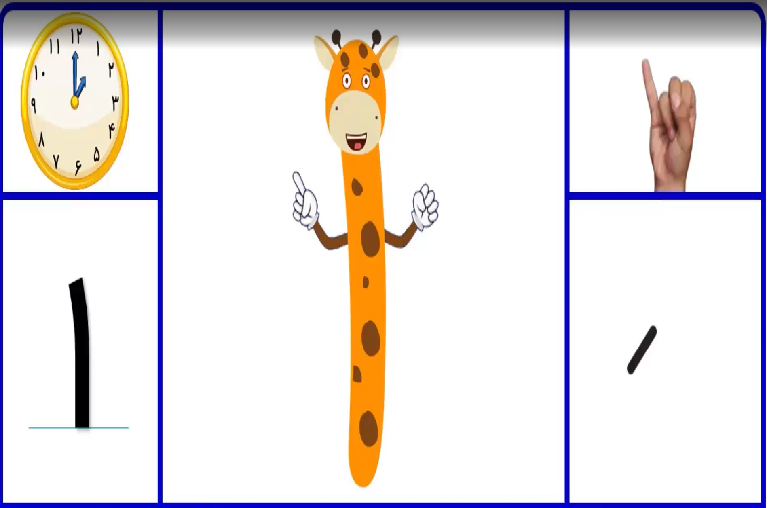
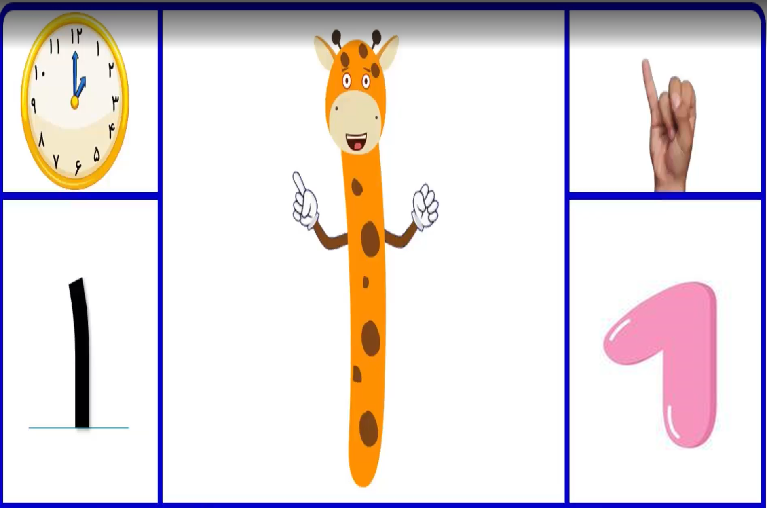
add the game (flipping table) to alpha page.

Changed region(s): [[0.7812, 0.5315, 0.9375, 0.8858]]

diff --git a/src/component/classes/alphabet/dataAlpha.js b/src/component/classes/alphabet/dataAlpha.js
@@ -1059,6 +1059,11 @@ export let testSchoolSupplies = {
             sylabelWord : "ما + شین + حِ + ساب --> ماشین حساب",
             active :""
         },
+        {
+            image :"./images/assetAlpha/school-supplies/12-30-24-sch.png",
+            sylabelWord : "",
+            active :""
+        },
     ]
 }
 
@@ -1365,5 +1370,38 @@ export let testOrder1 = {
 }
 
 // ******************************* End MakeWordCarousel data *********************
+
+// **************************** start flipping Table data ***********************
+export const tableDataNum = [
+    [
+      { front: './images/assetAlpha/numbers/1-8-25-16-num.png', back: 'Back A1 Info' },
+      { front: './images/assetAlpha/numbers/1-8-25-8-num.png', back: 'Back A1 Info' },
+      { front: './images/assetAlpha/numbers/1-8-25-13-num.png', back: 'Back A1 Info' },
+      { front: './images/assetAlpha/numbers/1-8-25-9-num.png', back: 'Back A1 Info' },
+      { front: './images/assetAlpha/numbers/1-8-25-10-num.png', back: 'Back A1 Info' },
+    ],
+    [
+      { front: './images/assetAlpha/numbers/1-8-25-1-num.png', back: 'Back A1 Info' },
+      { front: './images/assetAlpha/numbers/1-8-25-17-num.png', back: 'Back A1 Info' },
+      { front: './images/assetAlpha/numbers/1-8-25-19-num.png', back: 'Back A1 Info' },
+      { front: './images/assetAlpha/numbers/1-8-25-3-num.png', back: 'Back A1 Info' },
+      { front: './images/assetAlpha/numbers/1-8-25-5-num.png', back: 'Back A1 Info' },
+    ],
+    [
+      { front: './images/assetAlpha/numbers/1-8-25-6-num.png', back: 'Back A1 Info' },
+      { front: './images/assetAlpha/numbers/1-8-25-2-num.png', back: 'Back A1 Info' },
+      { front: './images/assetAlpha/numbers/1-8-25-4-num.png', back: 'Back A1 Info' },
+      { front: './images/assetAlpha/numbers/1-8-25-15-num.png', back: 'Back A1 Info' },
+      { front: './images/assetAlpha/numbers/1-8-25-12-num.png', back: 'Back A1 Info' },
+    ],
+    [
+      { front: './images/assetAlpha/numbers/1-8-25-14-num.png', back: 'Back A1 Info' },
+      { front: './images/assetAlpha/numbers/1-8-25-7-num.png', back: 'Back A1 Info' },
+      { front: './images/assetAlpha/numbers/1-8-25-11-num.png', back: 'Back A1 Info' },
+      { front: './images/assetAlpha/numbers/1-8-25-18-num.png', back: 'Back A1 Info' },
+      { front: './images/assetAlpha/numbers/1-8-25-20-num.png', back: 'Back A1 Info' },
+    ],
+  ];
+// **************************** End  flipping Table data ************************
 
 

diff --git a/src/component/classes/alphabet/Alphabet.js b/src/component/classes/alphabet/Alphabet.js
@@ -1,10 +1,12 @@
 import {CardAlphaCompo,} from "./cardAlpha/CardAlphaCompo.js";
-import {alphaCrousel, alphaShortCrousel, sylabelWord1, sylabelWord2} from "./dataAlpha.js"
+import {alphaCrousel, alphaShortCrousel, sylabelWord1, sylabelWord2, tableDataNum} from "./dataAlpha.js"
 import {CarouselAlpha} from "./CarouselAlpha"
 import { WordCarousel } from "./WordCarousel";
 import { SylabeWords } from "./SylabeWords";
 import { SidebarAlpha } from "./SidebarAlpha.js";
 import { useState } from "react";
+import FlipButton from "./FlipButton/FlipButton.js";
+import FlippingTable from "./FlippingTable/FlippingTable.js";
 
 export const Alphabet = () => {
   const [showShort, setShowShort] = useState(false)
@@ -17,16 +19,18 @@ export const Alphabet = () => {
               <SidebarAlpha setShowShort={setShowShort} showShort= {showShort} idCarouselAlpha="shorthref1"/>
             </div>
             <div className="col-s-12 col-lg-9">
+              <FlipButton frontText="Click Me masooma" backText="Thanks!" />
               <CarouselAlpha  dataCarousel={alphaCrousel}/>
               <CardAlphaCompo/>
               {showShort && <CarouselAlpha idCarouselAlpha="shorthref1"  dataCarousel={alphaShortCrousel}/>}
-              
               <SylabeWords infoSentence={sylabelWord1}/>
               <SylabeWords infoSentence={sylabelWord2}/>
+              <FlippingTable tableData={tableDataNum} />
               <WordCarousel/>
             </div>
           </div>
         </div>
+
     </>
   )
 }

diff --git a/src/component/classes/alphabet/FlippingTable/FlippingTable.js b/src/component/classes/alphabet/FlippingTable/FlippingTable.js
@@ -1,0 +1,38 @@
+import React, { useState } from 'react';
+import './FlippingTable.css';
+
+const FlippingTable = ({ tableData }) => {
+  const [flippedCells, setFlippedCells] = useState({});
+
+  const handleFlip = (row, col) => {
+    setFlippedCells((prev) => ({
+      ...prev,
+      [`${row}-${col}`]: !prev[`${row}-${col}`],
+    }));
+  };
+
+  return (
+    <table className="flipping-table">
+      <tbody>
+        {tableData.map((row, rowIndex) => (
+          <tr key={rowIndex}>
+            {row.map((cell, colIndex) => (
+              <td
+                key={colIndex}
+                className={`cell ${flippedCells[`${rowIndex}-${colIndex}`] ? 'flipped' : ''}`}
+                onClick={() => handleFlip(rowIndex, colIndex)}
+              >
+                <div className="cell-inner">
+                  <div className="cell-front "> <img className='w-100 h-100' src={cell.front}  alt="" srcset="" /> </div>
+                  {/* <div className="cell-back">{cell.back}</div> */}
+                </div>
+              </td>
+            ))}
+          </tr>
+        ))}
+      </tbody>
+    </table>
+  );
+};
+
+export default FlippingTable;

diff --git a/src/component/classes/alphabet/FlipButton/FlipButton.css b/src/component/classes/alphabet/FlipButton/FlipButton.css
@@ -1,0 +1,46 @@
+.flip-button {
+    perspective: 1000px;
+    display: inline-block;
+    width: 150px;
+    height: 50px;
+    cursor: pointer;
+  }
+  
+  .button-inner {
+    position: relative;
+    width: 100%;
+    height: 100%;
+    text-align: center;
+    transition: transform 0.6s;
+    transform-style: preserve-3d;
+  }
+  
+  .flip-button.flipped .button-inner {
+    transform: rotateY(180deg);
+  }
+  
+  .button-front,
+  .button-back {
+    position: absolute;
+    width: 100%;
+    height: 100%;
+    backface-visibility: hidden;
+    display: flex;
+    justify-content: center;
+    align-items: center;
+    font-size: 16px;
+    font-weight: bold;
+    border-radius: 8px;
+  }
+  
+  .button-front {
+    background-color: #2662a2;
+    color: rgb(255, 253, 253);
+  }
+  
+  .button-back {
+    background-color: #28a745;
+    color: white;
+    transform: rotateY(180deg);
+  }
+  

diff --git a/src/component/classes/alphabet/FlippingTable/FlippingTable.css b/src/component/classes/alphabet/FlippingTable/FlippingTable.css
@@ -1,0 +1,49 @@
+.flipping-table {
+  border-collapse: collapse;
+  margin: 20px auto;
+  text-align: center;
+  background-image:url("/public/images/webPic/cinnamoroll-2.png") ;
+  background-size:cover;
+}
+
+.cell  {
+  width: 200px;
+  height: 200px;
+  perspective: 1000px;
+  border: 10px solid #e80505;
+  /* padding: 5px; */
+}
+
+.cell-inner {
+  position: relative;
+  width: 100%;
+  height: 100%;
+  transition: transform 0.6s;
+  transform-style: preserve-3d;
+}
+
+.cell.flipped .cell-inner {
+  transform: rotateY(180deg);
+}
+
+.cell-front,
+.cell-back {
+  position: absolute;
+  width: 100%;
+  height: 100%;
+  backface-visibility: hidden;
+  display: flex;
+  align-items: center;
+  justify-content: center;
+}
+
+.cell-front {
+  background: #4caf50;
+  color: white;
+}
+
+.cell-back {
+  background: #f44336;
+  color: white;
+  transform: rotateY(180deg);
+}

diff --git a/src/component/classes/alphabet/FlipButton/FlipButton.js b/src/component/classes/alphabet/FlipButton/FlipButton.js
@@ -1,0 +1,25 @@
+import React, { useState } from "react";
+import "./FlipButton.css"; // Import CSS for styling
+
+const FlipButton = ({ frontText, backText, onClick }) => {
+  const [flipped, setFlipped] = useState(false);
+
+  const handleMouseEnter = () => setFlipped(true);
+  const handleMouseLeave = () => setFlipped(false);
+
+  return (
+    <div
+      className={`flip-button ${flipped ? "flipped" : ""}`}
+      onClick={handleMouseEnter}
+      onMouseLeave={handleMouseLeave}
+    //   onClick={onClick}
+    >
+      <div className="button-inner">
+        <div className="button-front">{frontText}</div>
+        <div className="button-back">{backText}</div>
+      </div>
+    </div>
+  );
+};
+
+export default FlipButton;
